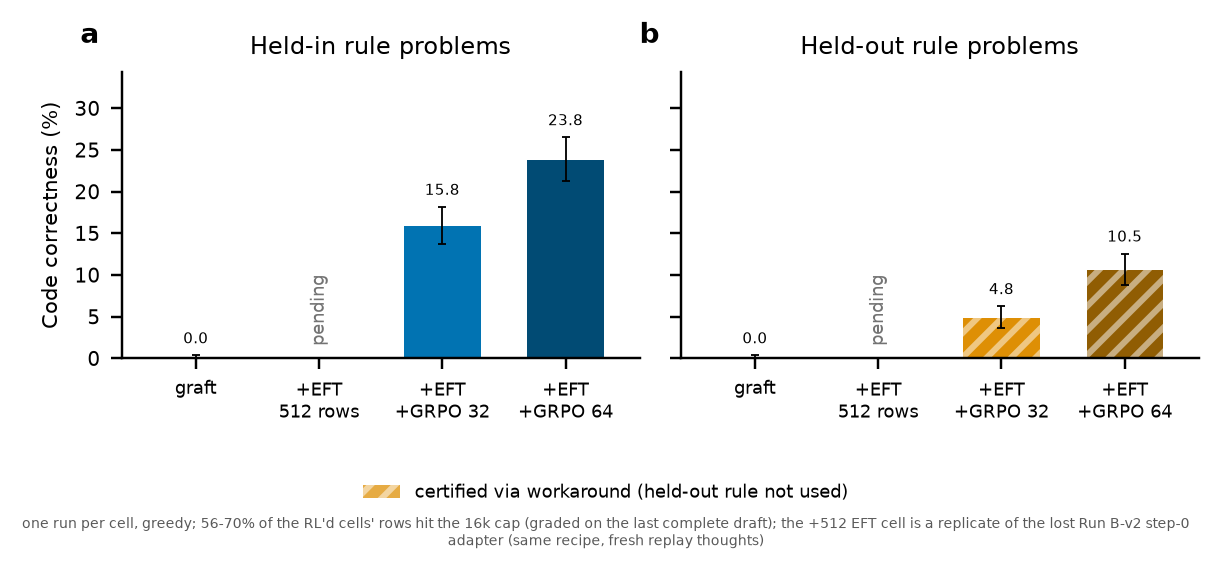
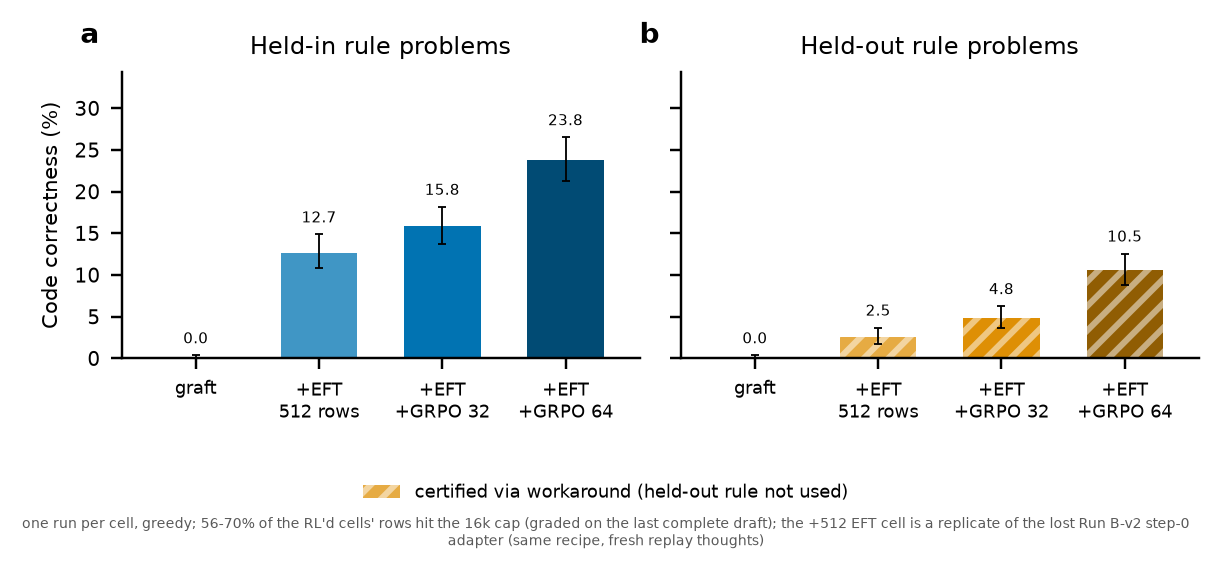
paper: graft-ladder figures complete (4/4 cells) — condition-2 replicate one-shot cell frozen from jb/python4-campaign@3349d81a

Changed region(s): [[0.218, 0.4161, 0.3115, 0.6241], [0.6852, 0.4755, 0.7787, 0.6241], [0.2492, 0.3566, 0.2803, 0.3864]]

diff --git a/paper/README.md b/paper/README.md
@@ -133,7 +133,7 @@ renamed `hero.pdf`. A two-row variant of v1 was tried and dropped earlier
 | A2. Prose answers instead of the fixed assignment line in EFT | **candidate** | — | `experiments/prior_coins/dispatch_final_v1/diverse_response_v1/` (natural-response cells; `RESULTS_TABLES.md`), scored in `results_grid/scored/ablations/diverse_response.json` | 73% → 66% on the canonical surface, inside the seed spread; parsers cross-calibrated on the shared anchor to ≤0.3pp. Robustness check |
 | A3. Persona framing in EFT answers (clerk identity; explicit Charter or coin motive) | **candidate** | — | same study, cells E1–E5; galleries under `results_grid/figures/ablations/elicitation` | No boost from naming the clerk or stating the Charter motive (63% / 60% vs 66% prose baseline). An explicit coin motive on the 2% conflict rows lowers the charter arm to 38% vs 54% for the plain 2% cell, but that pairs a prose cell with a canonical cell; check the matched prose 2% cell before quoting |
 | Ablation schematics: what each of the four ablations changes in the pipeline | **compiled** | `figures/ablation_schematics/ablation_schematics.pdf` | `figures/ablation_schematics/src/plot_ablation_schematics.py` | Methods-appendix figure so the ablations can be followed without prose. No data: four pipeline rows (no worked examples; documents before vs after instruct-tuning; prose answers; persona framing), the changed stage highlighted with a main-grid vs ablation callout; sources of each description in the script docstring |
-| Python 4 graft ladder, one-shot code correctness (bare Gemma-4 31B prop graft → +512-row EFT → same adapter after 32 / 64 GRPO steps; held-in vs held-out rule problems) | **compiled** (3 of 4 cells; the +512 EFT step-0 adapter has been re-trained as a replicate — its one-shot cell is sampling, lands 2026-09-12) | `figures/appendix-python-4/python4_graft_ladder/python4_graft_ladder.pdf` | `figures/appendix-python-4/python4_graft_ladder/src/plot_python4_graft_ladder.py` (`src/freeze.py` from `experiments/python4/runbv2_ladder/results/ladder_data.json` on `jb/python4-campaign`) | Bare graft 0/1,024 on both splits (cold GRPO on the same graft also read 0: frame-gating); EFT-warm-started RL line 16% → 24% held-in, 5% → 11% held-out, every held-out certification a workaround. Thinking on, greedy, n = 1,024/split; 56–70% of the RL'd cells' rows hit the 16k cap (graded on the last complete draft). Re-run `freeze.py` + the plot when the +512 EFT cell lands. Study: `experiments/python4/runbv2_ladder/RESULTS.md`. |
+| Python 4 graft ladder, one-shot code correctness (bare Gemma-4 31B prop graft → +512-row EFT → same adapter after 32 / 64 GRPO steps; held-in vs held-out rule problems) | **compiled** (4 of 4 cells; the +512 EFT step-0 adapter is a replicate re-trained 2026-09-11 with the Run B-v2 EFT recipe) | `figures/appendix-python-4/python4_graft_ladder/python4_graft_ladder.pdf` | `figures/appendix-python-4/python4_graft_ladder/src/plot_python4_graft_ladder.py` (`src/freeze.py` from `experiments/python4/runbv2_ladder/results/ladder_data.json` on `jb/python4-campaign`) | Bare graft 0/1,024 on both splits (cold GRPO on the same graft also read 0: frame-gating); +512 EFT alone 12.7% held-in / 2.5% held-out; the GRPO checkpoints 15.8% → 23.8% held-in, 4.8% → 10.5% held-out (RL roughly doubles one-shot correctness, while EFT alone carries Suite-A expression); every held-out certification a workaround. Thinking on, greedy, n = 1,024/split; 56–70% of the RL'd cells' rows hit the 16k cap (graded on the last complete draft). Study: `experiments/python4/runbv2_ladder/RESULTS.md`. |
 | Python 4 graft ladder, Suite-A rule expression (held-in vs held-out rules; same four cells as the code-correctness ladder above) | **compiled** (4 of 4 cells; the +512 EFT cell is a replicate adapter re-trained 2026-09-11 with the Run B-v2 EFT recipe) | `figures/appendix-python-4/python4_graft_ladder_rule_expression/python4_graft_ladder_rule_expression.pdf` | `figures/appendix-python-4/python4_graft_ladder_rule_expression/src/plot_python4_graft_ladder_rule_expression.py` (+ `src/freeze.py`) | Held-in expression 4% → 72% (EFT alone, step 0) → 73% → 76%; held-out 2% → 8% → 20% → 23% is the matrix-multiplication detector alone (`@` is valid Python 3; the two Python-4-specific held-out detectors read 0/128 on every cell), so not held-out dialect generalisation. 128 prompts per rule, thinking on, answer graded. |
 | Python 4 EFT dose grid, Gemma-4 12B: one-shot code correctness by midtrain arm (control / iso-token / prop-token) × EFT dose (parent / +256 / +1,024 rows), held-in vs held-out rule problems | **compiled** | `figures/appendix-python-4/python4_eft_dose_grid_12b/python4_eft_dose_grid_12b.pdf` | `figures/appendix-python-4/python4_eft_dose_grid_12b/src/plot_python4_eft_dose_grid_12b.py` (`src/freeze.py` from `experiments/python4/plots_dose_grid/eft_grid_data.json` on `jb/python4-campaign`@75d23750; port of `experiments/python4/plot_eft_dose_grid.py`) | All parents 0/1,024 (iso 1/1,024 held-in). Held-in +256: 11.0 / 11.0 / 12.3% (control / iso / prop); +1,024: 15.1 / 13.6 / 17.4% — arms within a few points, no midtrain benefit at 12B. Held-out ≤3.2% and essentially all workaround. Greedy, n = 1,024/split per cell, Wilson 95%. Study: `experiments/python4/plots_dose_grid/REVIEW.md` |
 | Python 4 EFT dose grid, Gemma-4 31B (same layout) | **compiled** | `figures/appendix-python-4/python4_eft_dose_grid_31b/python4_eft_dose_grid_31b.pdf` | `figures/appendix-python-4/python4_eft_dose_grid_31b/src/plot_python4_eft_dose_grid_31b.py` (+ `src/freeze.py`) | Parents 0/1,024 everywhere. Held-in +256: 14.4 / 17.2 / 17.4%; +1,024: 27.9 / 28.9 / 28.8% — marginal midtrain benefit at 256 rows only. Held-out 2.8→8.0 / 2.8→10.2 / 3.4→9.8%, ≥94% workaround |
